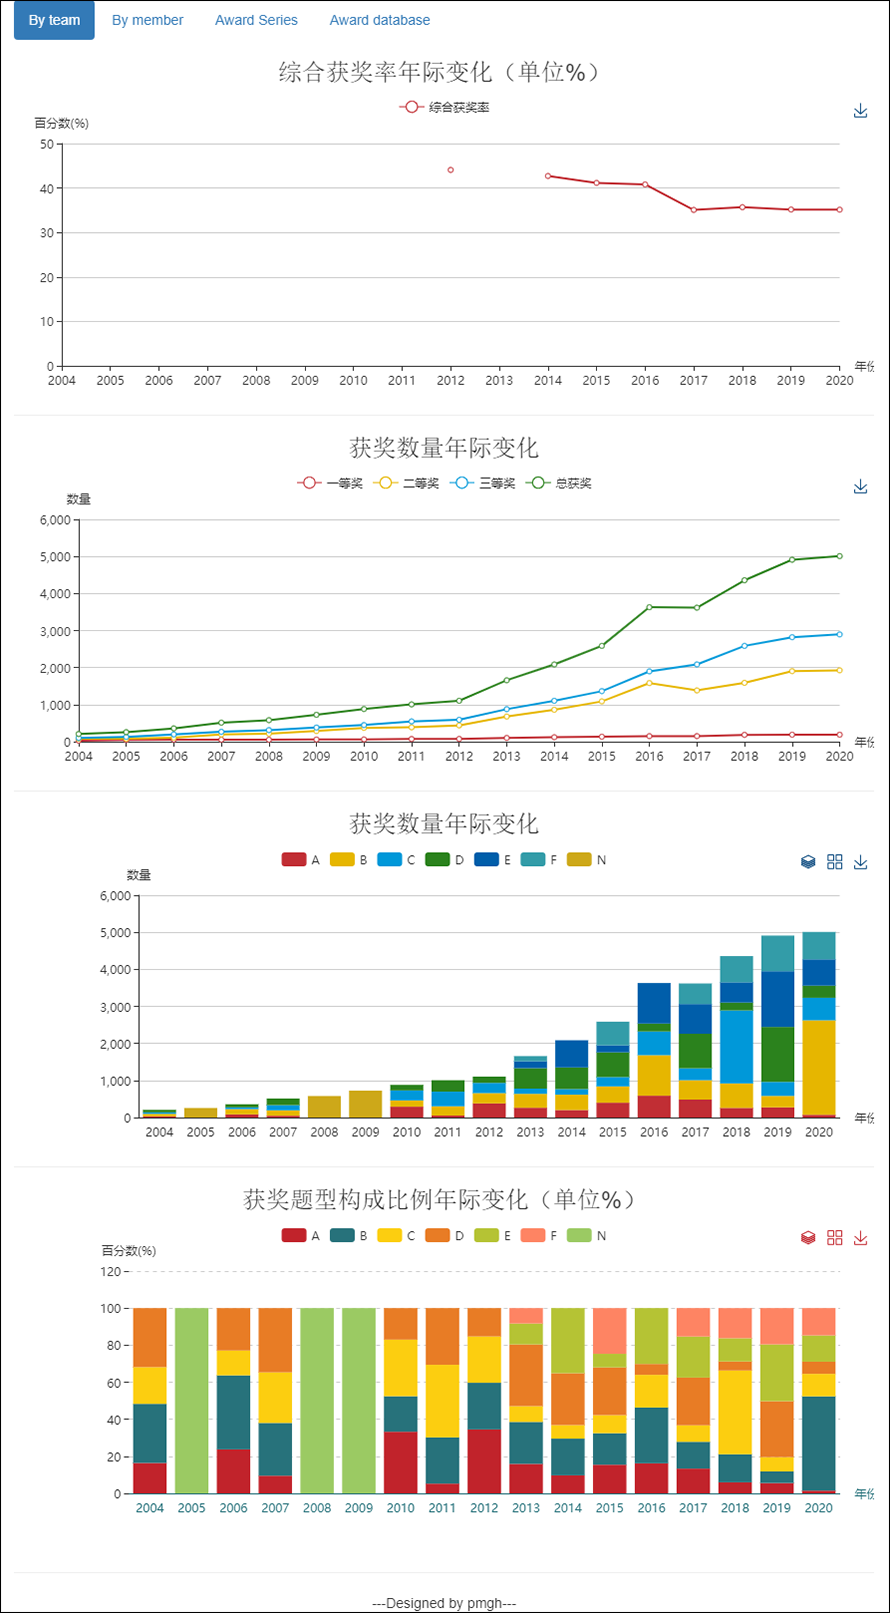
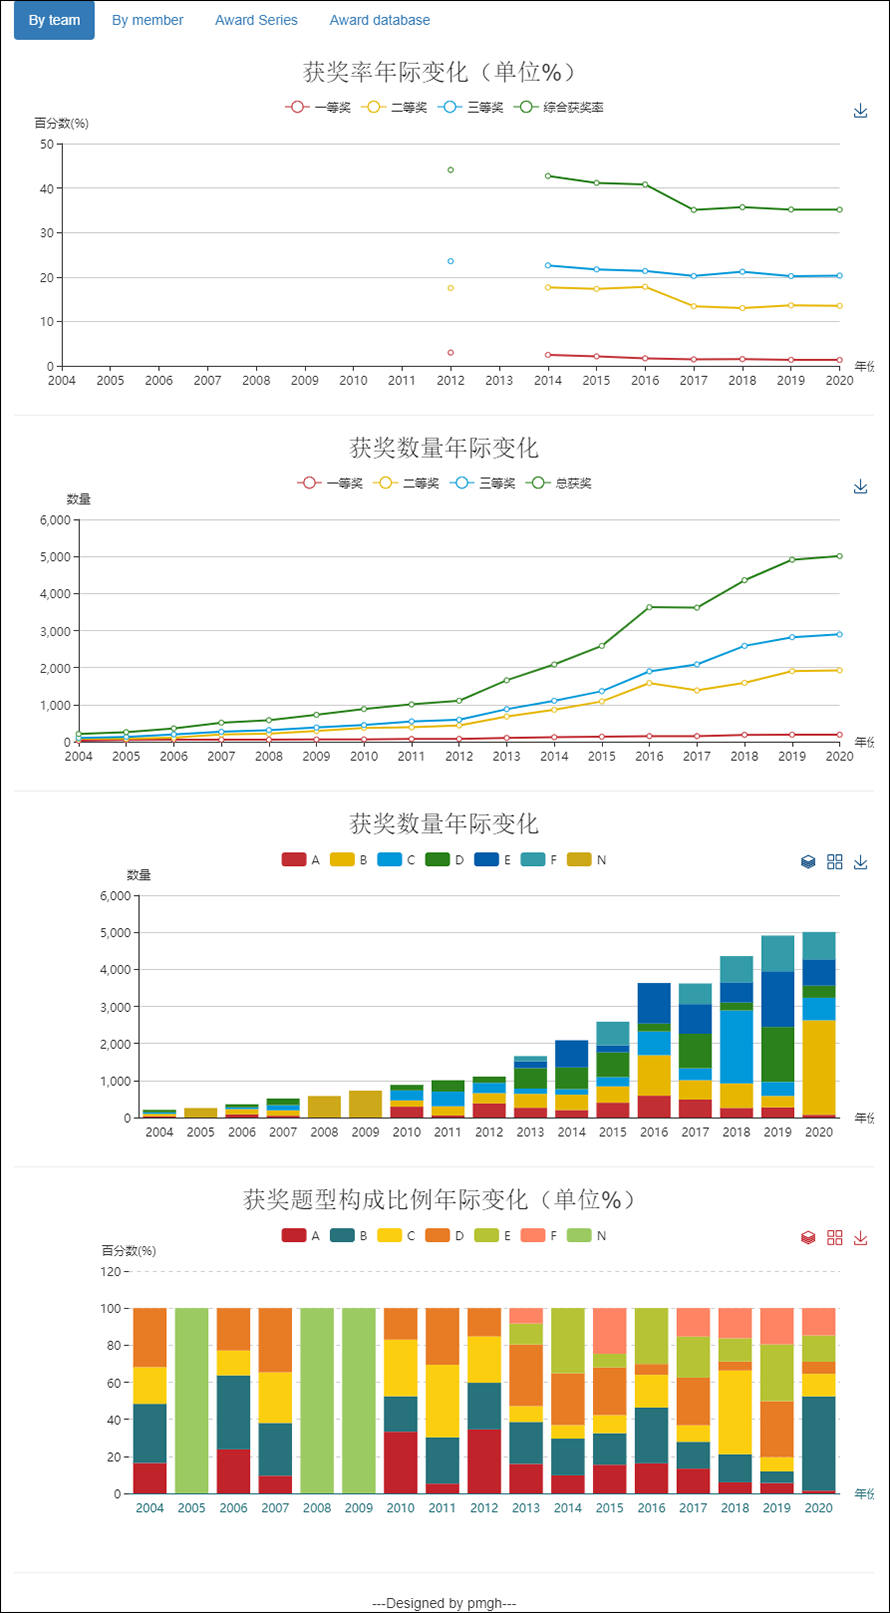
修改了v3.0中部分细节

Changed region(s): [[0.3034, 0.031, 0.6674, 0.093], [0.6067, 0.155, 0.7584, 0.186]]

diff --git a/Readme.md b/Readme.md
@@ -1,15 +1,15 @@
 # 中国研究生数学建模竞赛获奖数据和可视化分析案例
 
-本项目收集了2004年以来中（全）国研究生数学建模竞赛获奖数据，并基于R语言，进行了数据处理和可视化的工作。
+本项目收集了2004年（第一届）至今中（全）国研究生数学建模竞赛获奖数据，并基于R语言，进行了数据处理和可视化的工作。
 
-这项工作最初的起因是，作者本人和队友在2015、2016、2017参赛并获奖后，好奇一共有多少人连续获奖以及他们来自于哪个省份和学校。于是2017年底，我开始收集数据、敲代码。由于当时正值毕业，也面临着从matlab转出选语言的问题，认准R语言的我便开始使用R来写这部分代码，所以当时那一版惨不忍睹。2018年9月15日，台风山竹正面袭击广州深圳，被迫呆在家里的我，发现正好是当年落户杯开赛的日子，于是决定把这个项目整个重写了一遍，并发布到github上。2020开年的新冠肺炎疫情期间，没法去办公室的我，看了Hadley 大神的Advanced R一书，并整合自己2019年所学，开始重新审视自己的编程水平，于是决定再一次修改这个代码，并且决定，以后每年都要来修改一次，以见证每年收获和进步。
+这项工作最初的起因是，作者和队友在2015、2016、2017年参赛并获奖后，好奇一共有多少人连续获奖以及他们来自于哪个省份和学校。于是2017年底，我开始收集数据、敲代码。由于当时正值毕业，也面临着从matlab转出选语言的问题，认准R语言的我便开始使用R来写这部分代码，因此当时那一版惨不忍睹。2018年9月15日，台风山竹正面袭击广州深圳，被迫呆在家里的我，发现正好是当年落户杯开赛的日子，于是我决定把这个代码重写了一遍，并发布到github上。2020开年的新冠肺炎疫情期间，没法去办公室的我，看了Hadley 大神的Advanced R一书，并整合自己2019年所学，开始重新审视自己的编程水平，于是决定再一次修改这个代码，并且决定，以后每年都要来修改一次，以见证每年收获和进步。
 
 关于项目的几个说明：
 
-1. 中国研究生数学建模竞赛（原名全国研究生数学建模竞赛），[官网网址（新）](https://cpipc.chinadegrees.cn/cw/hp/4 )，[官方网址（旧）](http://gmcm.seu.edu.cn/main.htm)，每年11月~12月会公布当年获奖名单，旧网址曾经有历年数据，不过目前404了；
+1. 中国研究生数学建模竞赛（原名全国研究生数学建模竞赛），[官网网址（新）](https://cpipc.chinadegrees.cn/cw/hp/4 )，[官方网址（旧）](http://gmcm.seu.edu.cn/main.htm)，2004年开办，每年9月开赛、11月~12月会公布当年获奖结果，旧网址曾经有历年数据，不过目前404了；
 2. 官方公布的获奖名单，包含一等奖、二等奖、三等奖以及成功参与（参赛、参加）奖，但是基本上参赛、提交并未被认定为作弊就能拿到成功参与奖，所以这里将获奖名单视为参赛名单，其中的一二三等奖视为获奖；
-3. 部分年份获奖名单中无题型信息，则视其题型为N；
-4. 对于“连续获奖”这个概念，每个版本可能有不同算法，但基本原则是：
+3. 部分年份获奖名单中无题型信息，则视其题型全部为N；
+4. 对于个人“连续获奖”这个概念，每个版本可能有不同算法，但基本原则是：
    - 鉴于信息有限，只考虑同名、同学校在连续年份的获奖情况为“连续获奖”，即忽略“山大张三在2005年获奖后转学到中大并于2006年获奖”
    - 鉴于信息有限，不区分同名不同人、但同校名的获奖情况，即将“山大张三于2005年获奖然后另一个也叫张三的山大学生于2006年获奖”，视为连续2次获奖 
    - 如果张三于2005年获奖，并于2007、2008年获奖，则将其视为两次连续获奖，第一次为1连，第二次为2连
@@ -47,13 +47,13 @@
 
 ### 2021-05-01 v3.0：
 
-1. 更新工具和数据：R语言版本为v4.0.5，Rstudio版本为1.4.1106，代码中所有相关packages已更于2021年04月26日更新到最新版本。获奖数据更新到2020年第十七届。
-2. 优化代码：将数据处理部分的代码整理到一个文件中，修改了相关函数名和变量名。
-3. 优化文件（夹）名：规范了文件和文件夹的名称，在文件名中区分了读取和产生的，体现了生成的文件顺序，便于查找和识别。
-4. 优化文件存储路径：将获奖名单的原始数据保存在根目录下的文件夹中，今后每个版本都在此读取原始文件，将所有数据文件保存在./shiny_app/data中，便于可视化部分操作数据。
-5. 修复问题：进一步完善了获奖名单中，培养单位名称不统一问题，即进一步更新了0-unit_name_convert.csv文件。
-6. 添加可视化图表：在shiny的第一页中添加了“综合获奖率年际变化“图和”获奖提醒构成比例年际变化“图，其中，综合获奖率指的是获得一、二、三等奖的总数量（获奖数）占获奖名单中包括成功参与奖的所有数量（参赛数）的总和，部分年份获奖名单中没有出现成功参与奖，则此年度综合获奖率空缺。
-7. 说明：由于此版本强制规定读取和保存的csv文件为UTF-8编码，导致在我的电脑上，shiny部分第四页的获奖信息查询系统不能正常使用了，猜想是由于windows中Rstudio打开的shinyui为GB2312，在此部分查找信息时的输入文字为GB2312，与底层数据编码矛盾导致的。然而，虽然强制规定了编码，但还是由于编码问题，此shinyapp并不能上传到shinyapps.io。
+1. 更新工具和数据：R语言版本为v4.0.5，Rstudio版本为1.4.1106，所有涉及到的packages在使用前都已于2021年04月26日升级到最新版本。获奖数据更新到2020年第十七届；
+2. 优化代码：将数据处理部分的代码整理到一个文件中，修改了相关函数名和变量名；
+3. 优化文件（夹）名：规范了文件和文件夹的名称，在文件名中区分了读取或是生成顺序，便于查找和识别。
+4. 优化文件存储路径：将获奖名单的原始数据保存在根目录下的文件夹中，今后每个版本都在此读取原始文件，将中间过程所需或所产生的数据文件保存在./shiny_app/data中，便于可视化；
+5. 修复问题：进一步完善了获奖名单中，培养单位名称不统一问题，即进一步更新了0-unit_name_convert.csv文件；
+6. 添加可视化图表：在shiny的第一页中添加了“获奖率年际变化“图和”获奖题型构成比例年际变化“图，其中，部分年份获奖名单中没有出现成功参与奖，则此年度获奖率空缺，此外，为避避免歧义，修改了可视化中图表的标题、图例、坐标轴名称等部分文字描述；
+7. 其他：由于此版本强制规定读取和保存的csv文件为UTF-8编码，导致在我的电脑上，shiny部分第四页的获奖信息查询系统不能正常使用了，猜想是由于windows中Rstudio打开的shinyui为GB2312，在此部分查找信息时的输入文字为GB2312，与底层数据编码矛盾导致的。然而，虽然强制规定了编码，但还是由于编码问题，此shinyapp并不能上传到shinyapps.io。
 
 ### 2020-03-14 v2.0：
 

diff --git a/v3.0/#readme_v3.0.md b/v3.0/#readme_v3.0.md
@@ -1,9 +1,9 @@
 ### v3.0版更新内容：	
 
-1. 更新工具和数据：R语言版本为v4.0.5，Rstudio版本为1.4.1106，代码中所有相关packages在使用前都已更于2021年04月26日新到最新版本。获奖数据更新到2020年第十七届。
-2. 优化代码：将原数据处理代码整理到一个文件中，修改了相关函数名和变量名。
-3. 优化文件（夹）名：规范了文件和文件夹的名称，在文件名中区分了读取和产生的，体现了生成的文件顺序，便于查找和识别。
-4. 优化文件存储路径：将获奖名单的原始数据保存在根目录下的文件夹中，今后每个版本都在此读取原始文件，将所有数据文件保存在./shiny_app/data中，便于可视化部分操作数据。
-5. 修复问题：进一步完善了获奖名单中，培养单位名称不统一问题，即进一步更新了0-unit_name_convert.csv文件。
-6. 添加可视化图表：在shiny的第一页中添加了“综合获奖率年际变化“图和”获奖提醒构成比例年际变化“图，其中，综合获奖率指的是获得一、二、三等奖的总数量（获奖数）占获奖名单中包括成功参与奖的所有数量（参赛数）的总和，部分年份获奖名单中没有出现成功参与奖，则此年度综合获奖率空缺。
-7. 说明：由于此版本强制规定读取和保存的csv文件为UTF-8编码，导致在我的电脑上，shiny部分第四页的获奖信息查询系统不能正常使用了，猜想是由于windows中Rstudio打开的shinyui为GB2312，在此部分查找信息时的输入文字为GB2312，与底层数据编码矛盾导致的。然而，虽然强制规定了编码，但还是由于编码问题，此shinyapp并不能上传到shinyapps.io。
+1. 更新工具和数据：R语言版本为v4.0.5，Rstudio版本为1.4.1106，所有涉及到的packages在使用前都已于2021年04月26日升级到最新版本。获奖数据更新到2020年第十七届；
+2. 优化代码：将数据处理部分的代码整理到一个文件中，修改了相关函数名和变量名；
+3. 优化文件（夹）名：规范了文件和文件夹的名称，在文件名中区分了读取或是生成顺序，便于查找和识别。
+4. 优化文件存储路径：将获奖名单的原始数据保存在根目录下的文件夹中，今后每个版本都在此读取原始文件，将中间过程所需或所产生的数据文件保存在./shiny_app/data中，便于可视化；
+5. 修复问题：进一步完善了获奖名单中，培养单位名称不统一问题，即进一步更新了0-unit_name_convert.csv文件；
+6. 添加可视化图表：在shiny的第一页中添加了“获奖率年际变化“图和”获奖题型构成比例年际变化“图，其中，部分年份获奖名单中没有出现成功参与奖，则此年度获奖率空缺，此外，为避避免歧义，修改了可视化中图表的标题、图例、坐标轴名称等部分文字描述；
+7. 其他：由于此版本强制规定读取和保存的csv文件为UTF-8编码，导致在我的电脑上，shiny部分第四页的获奖信息查询系统不能正常使用了，猜想是由于windows中Rstudio打开的shinyui为GB2312，在此部分查找信息时的输入文字为GB2312，与底层数据编码矛盾导致的。然而，虽然强制规定了编码，但还是由于编码问题，此shinyapp并不能上传到shinyapps.io。
